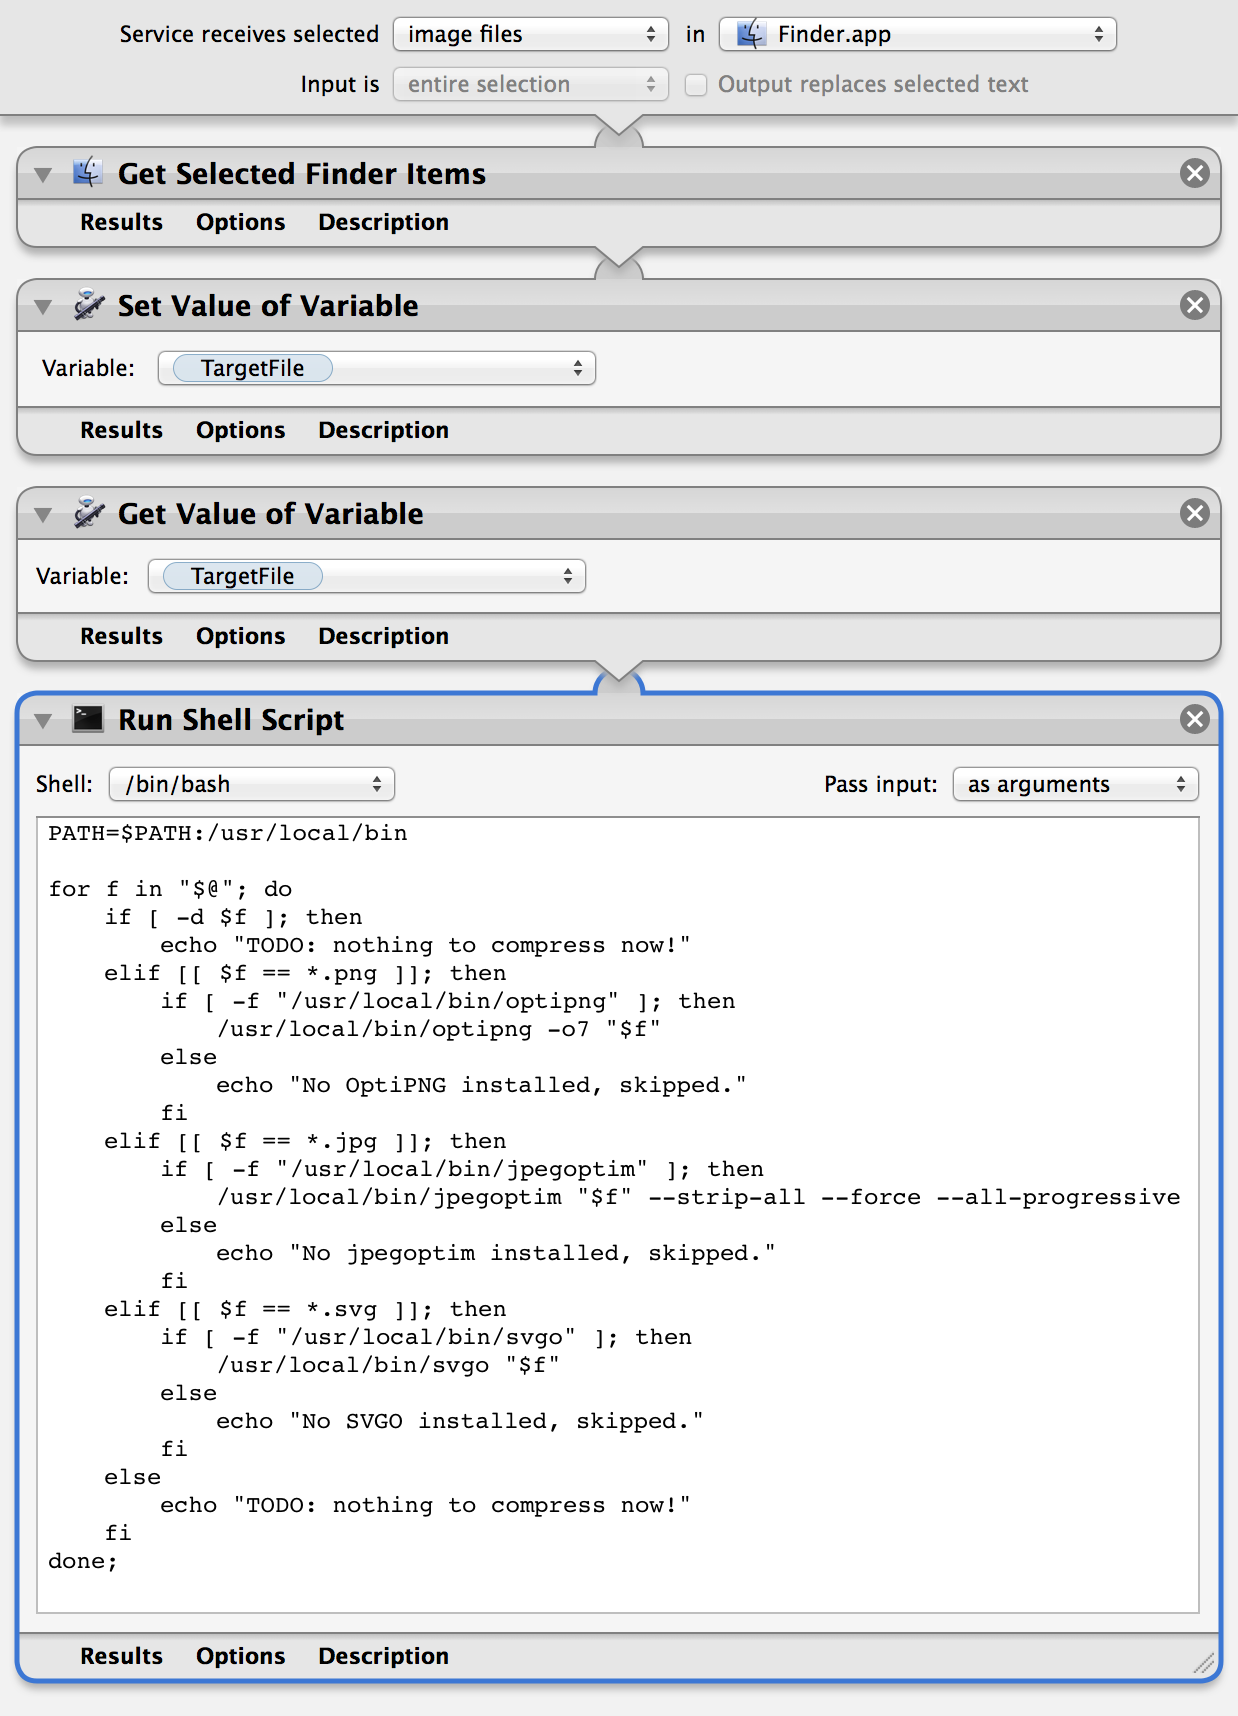
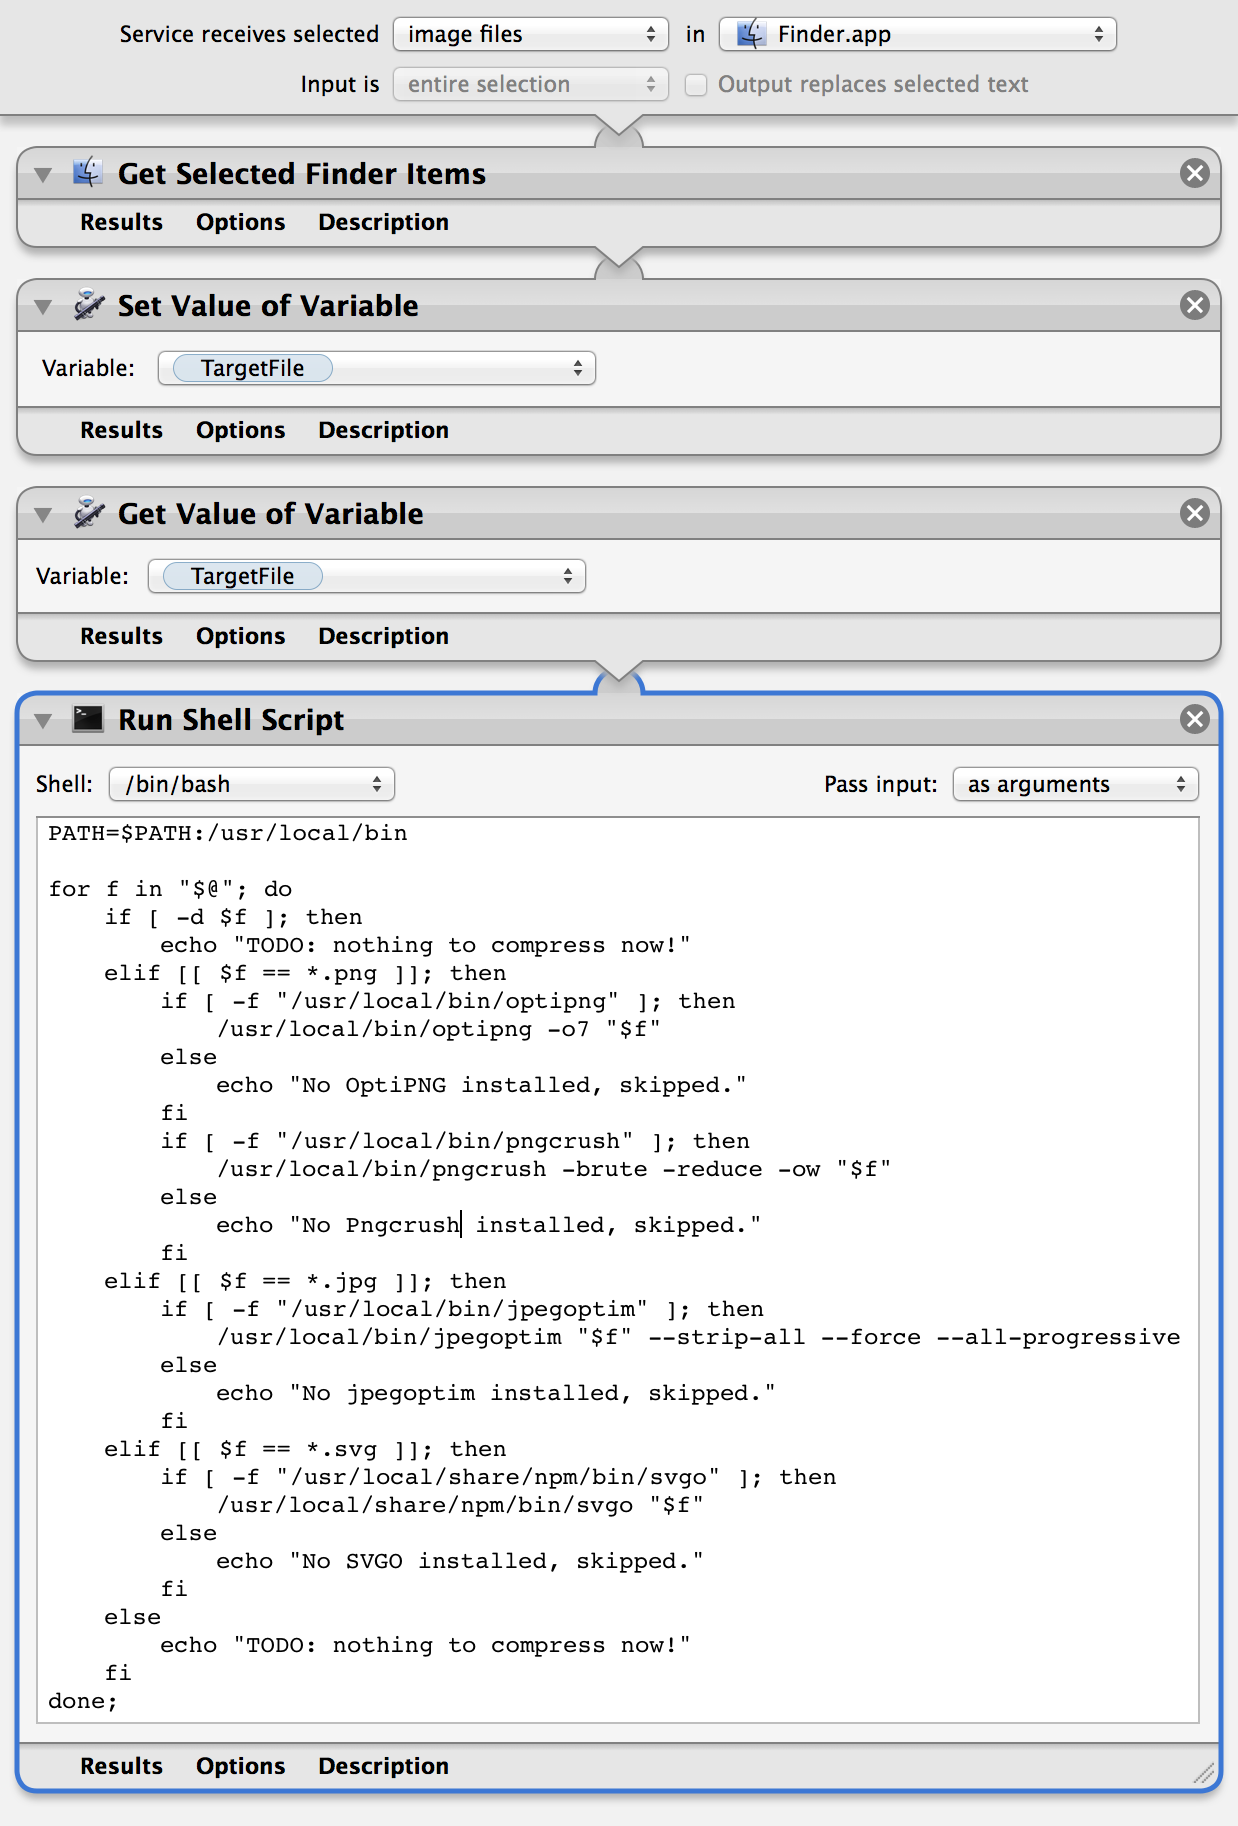
Add Pngcrush for PNG compression

diff --git a/README.md b/README.md
@@ -75,21 +75,22 @@ Create distributable, cross-platform hybrid DMG images using `hdiutil`, select a
 ### Open with rmate
 Open selected file with [rmate](https://github.com/textmate/rmate), `rmate` must be installed before using this workflow. Please note that since `rmate` is a third-party script, it’s [by design](http://developer.apple.com/library/mac/#technotes/tn2065/_index.html) that this script does NOT inherit the `$PATH` variable from your environment, you have to use full path for your `rmate` location, in this workflow, the path of `rmate` is `/usr/local/opt/ruby/bin/rmate` installed by [Homebrew](http://mxcl.github.io/homebrew/).
 
-### Compress SVG with SVGO
+### Compress SVG
 Compress selected SVG files with [svgo](https://github.com/svg/svgo), `svgo` must be installed before using this workflow. Please note that since `svgo` is a third-party script, it’s [by design](http://developer.apple.com/library/mac/#technotes/tn2065/_index.html) that this script does NOT inherit the `$PATH` variable from your environment, you have to use full path for your `svgo` location, in this workflow, the path of `svgo` is `/usr/local/bin/svgo`. (node and npm installed by [Homebrew](http://mxcl.github.io/homebrew/)).
 
-### Compress PNG with OptiPNG
-Compress selected PNG files with [OptiPNG](http://optipng.sourceforge.net/), `optipng` must be installed before using this workflow. Please note that since `optipng` is a third-party script, it’s [by design](http://developer.apple.com/library/mac/#technotes/tn2065/_index.html) that this script does NOT inherit the `$PATH` variable from your environment, you have to use full path for your `optipng` location, in this workflow, the path of `optipng` is `/usr/local/bin/optipng`. (Installed by [Homebrew](http://mxcl.github.io/homebrew/)).
+### Compress PNG
+Compress selected PNG files with [OptiPNG](http://optipng.sourceforge.net/), and [Pngcrush](http://pmt.sourceforge.net/pngcrush/), `optipng` and `pngcrush` must be installed before using this workflow. Please note that since `optipng` and `pngcrush` are third-party scripts, it’s [by design](http://developer.apple.com/library/mac/#technotes/tn2065/_index.html) that this script does NOT inherit the `$PATH` variable from your environment, you have to use full path for these binaries, in this workflow, `optipng` and `pngcrush` are located at `/usr/local/bin/`. (Installed by [Homebrew](http://mxcl.github.io/homebrew/)).
 
-**Note**: The default compress option is set to `-o7` (smallest file size and slowest), You may need change that.
+**Note #1**: The default `optipng` compress option is set to `-o7` (smallest file size and slowest), You may need change that.
+**Note #2**: The default `pngcrush` compress option is set to `-brute -reduce -ow` (try 138 different methods and do lossless color-type or bit-depth reduction), You may need change that.
 
-### Compress JPEG with jpegoptim
+### Compress JPEG
 Compress selected JPEG files with [jpegoptim](http://github.com/tjko/jpegoptim), `jpegoptim` must be installed before using this workflow. Please note that since `jpegoptim` is a third-party script, it’s [by design](http://developer.apple.com/library/mac/#technotes/tn2065/_index.html) that this script does NOT inherit the `$PATH` variable from your environment, you have to use full path for your `jpegoptim` location, in this workflow, the path of `jpegoptim` is `/usr/local/bin/jpegoptim`. (Installed by [Homebrew](http://mxcl.github.io/homebrew/)).
 
 **Note**: The default compress option is set to `--strip-all --force --all-progressive` (lossless compression, remove comment, Exif and ICC profile, force all outputs to be progressive), You may need change that.
 
 ### Compress Images
-This is a much simple workflow bundled with the three individual image compress workflows listed above. It auto detects the file type of selected images and compress them. `.png`, `.jpg` and `.svg` are supported. Of course `optipng`, `jpegoptim` and `svgo` must be installed before using this workflow.
+This is a much simple workflow bundled with the three individual image compress workflows listed above. It auto detects the file type of selected images and compress them. `.png`, `.jpg` and `.svg` are supported. Of course `optipng`, `pngcrush`, `jpegoptim` and `svgo` must be installed before using this workflow.
 
 **Note #1**: The default compress option for each type of images is the same as the individual compress workflow.
 
